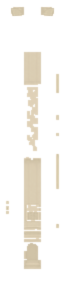
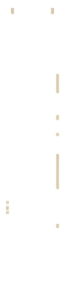
地鐵: the roof is never lit - end-on cars light their sides' strips only
Seen end-on (vert) a car is mostly roof, and its dark plates and vents
were lit as windows (Norton: 車頂是不用配燈的): there the light is only
the strip down each edge where the sides' windows show, and a cab's
windscreen facing the viewer.

Changed region(s): [[0.3692, 0.1708, 0.6462, 0.968], [0.6154, 0.0, 0.8308, 0.0569], [0.1846, 0.0, 0.3692, 0.0569]]

diff --git a/scripts/prepare-metro-train-assets.py b/scripts/prepare-metro-train-assets.py
@@ -524,7 +524,31 @@ def drop_roof_shade(win, rgb, al):
     return out
 
 
-def lit_of(img):
+def side_only(win, al, name):
+    """The roof is never lit (Norton, 2026-11-07: 車頂是不用配燈的). Seen end-on (vert) the car is
+    mostly roof: its sides' windows show only as a strip down each edge, each 16% of the car's width
+    in its row - only there, and the cab's windscreen on a front that faces the viewer (cabNear's
+    last 14%)."""
+    if name.replace('k_', '', 1).split('_')[0] != 'vert':
+        return win
+    solid = al > 200
+    h, w = win.shape
+    out = np.zeros_like(win)
+    for y in range(h):
+        xs = np.nonzero(solid[y])[0]
+        if not len(xs):
+            continue
+        l, r = xs.min(), xs.max()
+        band = max(2, int(round(0.16 * (r - l + 1))))
+        out[y, l:l + band] = win[y, l:l + band]
+        out[y, r - band + 1:r + 1] = win[y, r - band + 1:r + 1]
+    if 'cabNear' in name:
+        y0 = int(h * 0.86)
+        out[y0:] = win[y0:]
+    return out
+
+
+def lit_of(img, name=''):
     a = np.asarray(img).astype(np.float32)
     rgb, al = a[..., :3], a[..., 3]
     lum = rgb.mean(2)
@@ -540,6 +564,7 @@ def lit_of(img):
         seats = (r - b > 25) & (g > 90) & (r - g < 60) & (lum[col, x] < 175)   # (beige, not the red stripe)
         win[col, x] = (al[col, x] > 200) & (lum[col, x] > 30) & ((lum[col, x] < 120) & (r - g < 40) | seats)
     win = drop_roof_shade(win, rgb, al)
+    win = side_only(win, al, name)
     m = Image.fromarray(win.astype(np.uint8) * 255).filter(ImageFilter.MinFilter(3)).filter(ImageFilter.MaxFilter(3))
     m = np.asarray(m.filter(ImageFilter.GaussianBlur(0.6)), np.float32) / 255.0
     out = np.zeros(a.shape, np.float32)
@@ -614,7 +639,7 @@ def main():
         path = f'Models/metroTrain/car_{name}.png'
         c['img'].save(ROOT / path)
         lit_path = f'Models/metroTrain/car_{name}_lit.png'
-        lit_of(c['img']).save(ROOT / lit_path)
+        lit_of(c['img'], name).save(ROOT / lit_path)
         art[name] = {'path': path, 'key': f'metro_car_{name}', 'anchor': [round(float(c['ax']), 1), round(float(c['ay']), 1)],
                      'lit': {'path': lit_path, 'key': f'metro_car_{name}_lit'}}
         if 'cab' in name and 'cabFar' not in name:   # (a cab facing away shows no lamps)
